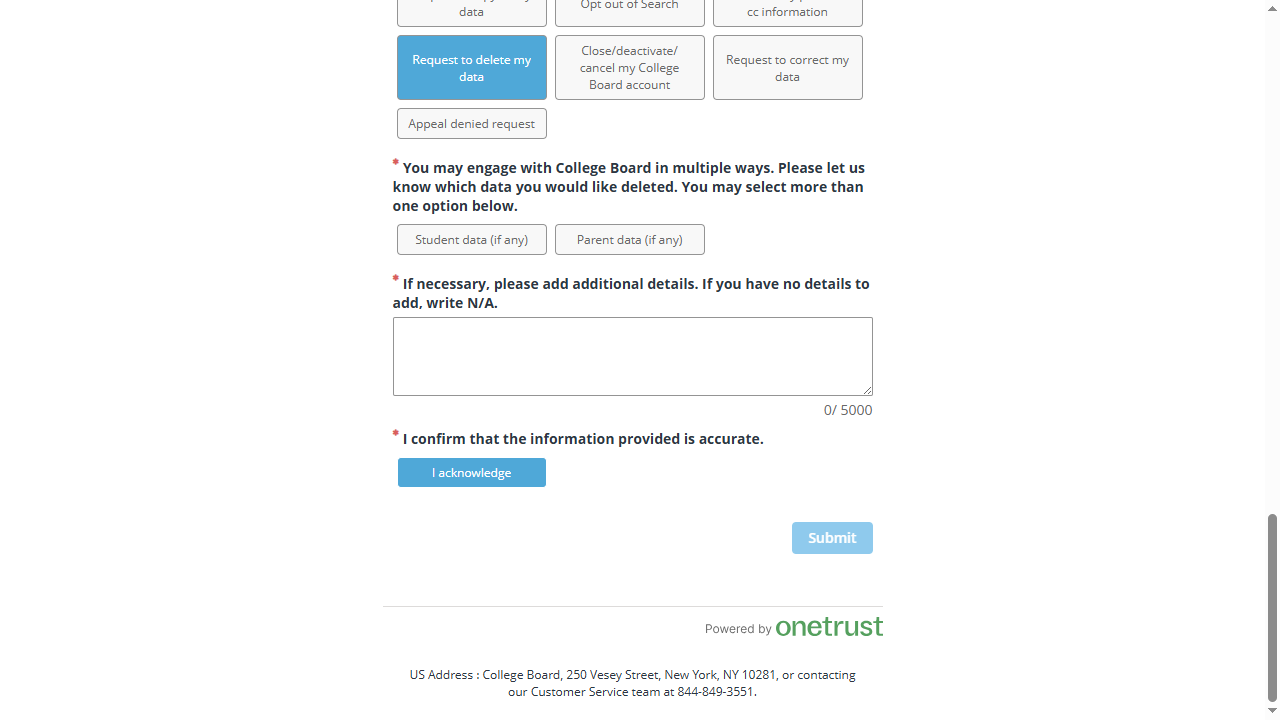
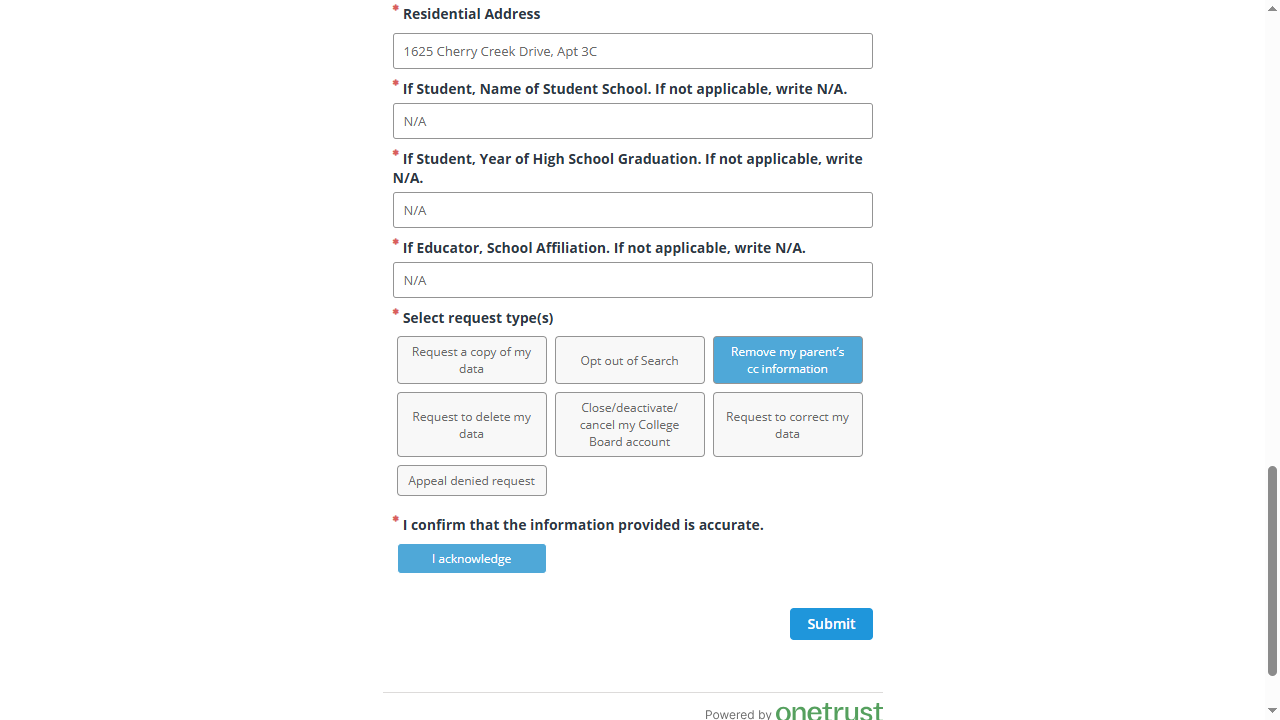
commit

diff --git a/Newfolder/test_record4_mapping.py b/Newfolder/test_record4_mapping.py
@@ -1,0 +1,153 @@
+#!/usr/bin/env python3
+"""
+Test script to verify the improved request type mapping for Record 4
+"""
+
+# Test the improved request type mapping logic
+def test_request_type_mapping():
+    """Test the request type mapping for 'Remove my parent's cc information'"""
+    
+    # Simulate the 4th record's request type
+    request_type_from_excel = "Remove my parent's cc information"
+    print(f"🎯 Testing request type: '{request_type_from_excel}'")
+    
+    # Define the improved request type mappings
+    request_type_mappings = {
+        # Delete data variants
+        'request to delete my data': ['delete', 'removal', 'erase', 'remove'],
+        'delete my data': ['delete', 'removal', 'erase', 'remove'],
+        'delete data': ['delete', 'removal', 'erase', 'remove'],
+        'remove my data': ['delete', 'removal', 'erase', 'remove'],
+        'erase my data': ['delete', 'removal', 'erase', 'remove'],
+        
+        # Parent/CC information specific (exact match priority)
+        'remove my parent\'s cc information': ['cc information', 'parent', 'credit card'],
+        'remove my parents cc information': ['cc information', 'parent', 'credit card'],
+        'remove parent cc information': ['cc information', 'parent', 'credit card'],
+        'remove my parent\'s credit card information': ['cc information', 'parent', 'credit card'],
+        
+        # Copy data variants  
+        'request a copy of my data': ['copy', 'access', 'download', 'portability'],
+        'copy of my data': ['copy', 'access', 'download', 'portability'],
+        'copy my data': ['copy', 'access', 'download', 'portability'],
+        'access my data': ['copy', 'access', 'download', 'portability'],
+        'download my data': ['copy', 'access', 'download', 'portability'],
+        
+        # Correct data variants
+        'correct my data': ['correct', 'rectify', 'update', 'modify'],
+        'update my data': ['correct', 'rectify', 'update', 'modify'],
+        'modify my data': ['correct', 'rectify', 'update', 'modify'],
+        'rectify my data': ['correct', 'rectify', 'update', 'modify'],
+        
+        # Restrict processing variants
+        'restrict processing': ['restrict', 'limit', 'stop processing'],
+        'limit processing': ['restrict', 'limit', 'stop processing'],
+        'stop processing my data': ['restrict', 'limit', 'stop processing'],
+        
+        # Object to processing variants
+        'object to processing': ['object', 'opt out', 'withdraw consent'],
+        'opt out': ['object', 'opt out', 'withdraw consent'],
+        'opt out of search': ['opt out', 'search', 'withdraw consent'],
+        'withdraw consent': ['object', 'opt out', 'withdraw consent']
+    }
+    
+    # STEP 1: First try EXACT TEXT MATCHING (priority)
+    search_keywords = []
+    request_type_lower = request_type_from_excel.lower()
+    exact_match_found = False
+    
+    print("\n🔍 STEP 1: Checking for exact phrase matches...")
+    for key, keywords in request_type_mappings.items():
+        if key in request_type_lower:
+            search_keywords = keywords
+            exact_match_found = True
+            print(f"✅ Found exact mapping for '{request_type_from_excel}' -> keywords: {keywords}")
+            break
+    
+    # STEP 2: If no exact mapping found, try KEYWORD-BASED MATCHING (fallback)
+    if not search_keywords:
+        print(f"\n⚠ No exact mapping found for '{request_type_from_excel}', trying keyword-based matching...")
+        
+        # Special handling for specific cases that might be mismatched
+        if 'cc information' in request_type_lower or 'credit card' in request_type_lower:
+            # This might be a specific request type, let's try to find exact match first
+            search_keywords = ['cc information', 'credit card', 'parent', 'remove']
+            print(f"🎯 Detected CC/credit card request, using specific keywords: {search_keywords}")
+        elif 'parent' in request_type_lower and 'information' in request_type_lower:
+            # Parent information removal - might be its own category
+            search_keywords = ['parent', 'information', 'remove', 'cc']
+            print(f"🎯 Detected parent information request, using specific keywords: {search_keywords}")
+        elif 'delete' in request_type_lower or 'remove' in request_type_lower or 'erase' in request_type_lower:
+            search_keywords = ['delete', 'removal', 'erase', 'remove']
+            print(f"🔍 Using delete/remove keywords: {search_keywords}")
+        elif 'copy' in request_type_lower or 'access' in request_type_lower or 'download' in request_type_lower:
+            search_keywords = ['copy', 'access', 'download', 'portability']
+            print(f"🔍 Using copy/access keywords: {search_keywords}")
+        elif 'correct' in request_type_lower or 'update' in request_type_lower or 'modify' in request_type_lower:
+            search_keywords = ['correct', 'rectify', 'update', 'modify']
+            print(f"🔍 Using correct/update keywords: {search_keywords}")
+        elif 'restrict' in request_type_lower or 'limit' in request_type_lower:
+            search_keywords = ['restrict', 'limit', 'stop processing']
+            print(f"🔍 Using restrict/limit keywords: {search_keywords}")
+        elif 'object' in request_type_lower or 'opt out' in request_type_lower:
+            search_keywords = ['object', 'opt out', 'withdraw consent']
+            print(f"🔍 Using object/opt-out keywords: {search_keywords}")
+        else:
+            # Default to copy if nothing matches
+            search_keywords = ['copy', 'access', 'download', 'portability']
+            print(f"⚠ No specific mapping found for '{request_type_from_excel}', defaulting to copy/access keywords")
+    
+    print(f"\n🔍 Final search keywords: {search_keywords}")
+    
+    # Simulate what form options might be available (from your screenshot)
+    available_form_options = [
+        "Request a copy of my data",
+        "Opt out of Search", 
+        "Remove my parent's cc information",
+        "Request to delete my data",
+        "Close/deactivate/cancel my College Board account",
+        "Request to correct my data"
+    ]
+    
+    print(f"\n📋 Available form options:")
+    for i, option in enumerate(available_form_options, 1):
+        print(f"  {i}. {option}")
+    
+    # Test EXACT MATCHING first (new improved logic)
+    print(f"\n🎯 STEP 1: Testing exact match for: '{request_type_from_excel}'")
+    exact_match_found = False
+    for option in available_form_options:
+        if request_type_from_excel.lower() in option.lower() or option.lower() in request_type_from_excel.lower():
+            print(f"🎯 Found EXACT MATCH: '{option}'")
+            print(f"✅ WOULD SELECT: '{option}' (EXACT MATCH)")
+            exact_match_found = True
+            break
+    
+    if not exact_match_found:
+        # Test keyword matching (fallback)
+        print(f"\n🔍 STEP 2: No exact match found, testing keyword-based matching...")
+        for keyword in search_keywords:
+            for option in available_form_options:
+                if keyword.lower() in option.lower():
+                    print(f"🔍 Found keyword match for '{keyword}': '{option}'")
+                    print(f"⚠  WOULD SELECT: '{option}' (keyword: '{keyword}')")
+                    break
+            else:
+                continue
+            break
+    
+    print(f"\n" + "="*80)
+    print("📊 CONCLUSION:")
+    print("="*80)
+    
+    if exact_match_found:
+        print("✅ SUCCESS: The improved logic would now correctly select the exact match!")
+        print("   'Remove my parent's cc information' → 'Remove my parent's cc information'")
+        print("   (Instead of incorrectly mapping to 'Request to delete my data')")
+    else:
+        print("⚠  The exact match logic didn't work as expected.")
+        print("   This means the form option text might be slightly different.")
+        print("   The script would fall back to keyword matching.")
+
+if __name__ == "__main__":
+    test_request_type_mapping()
